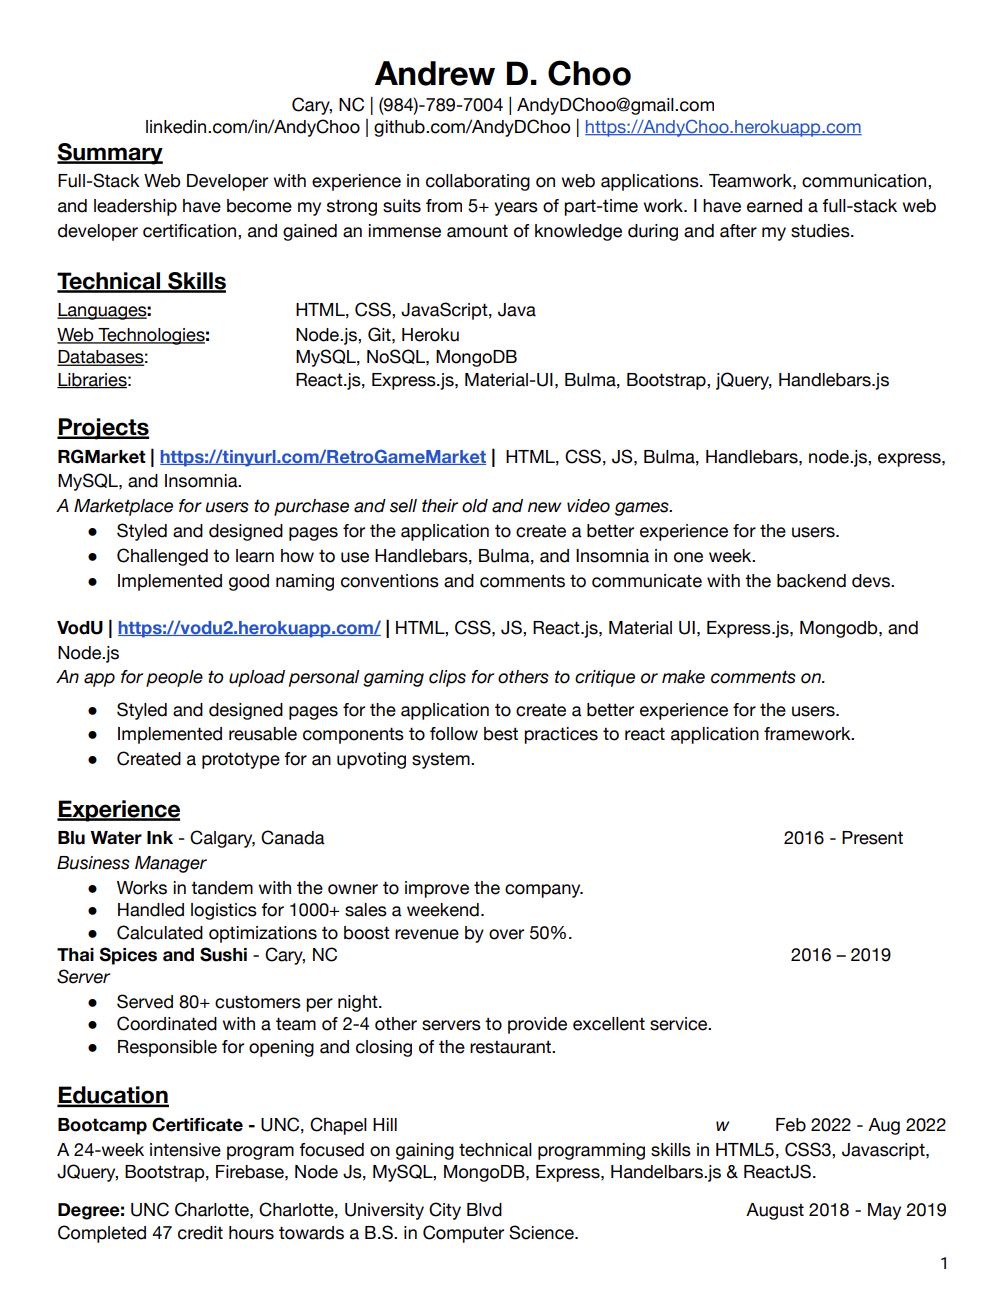
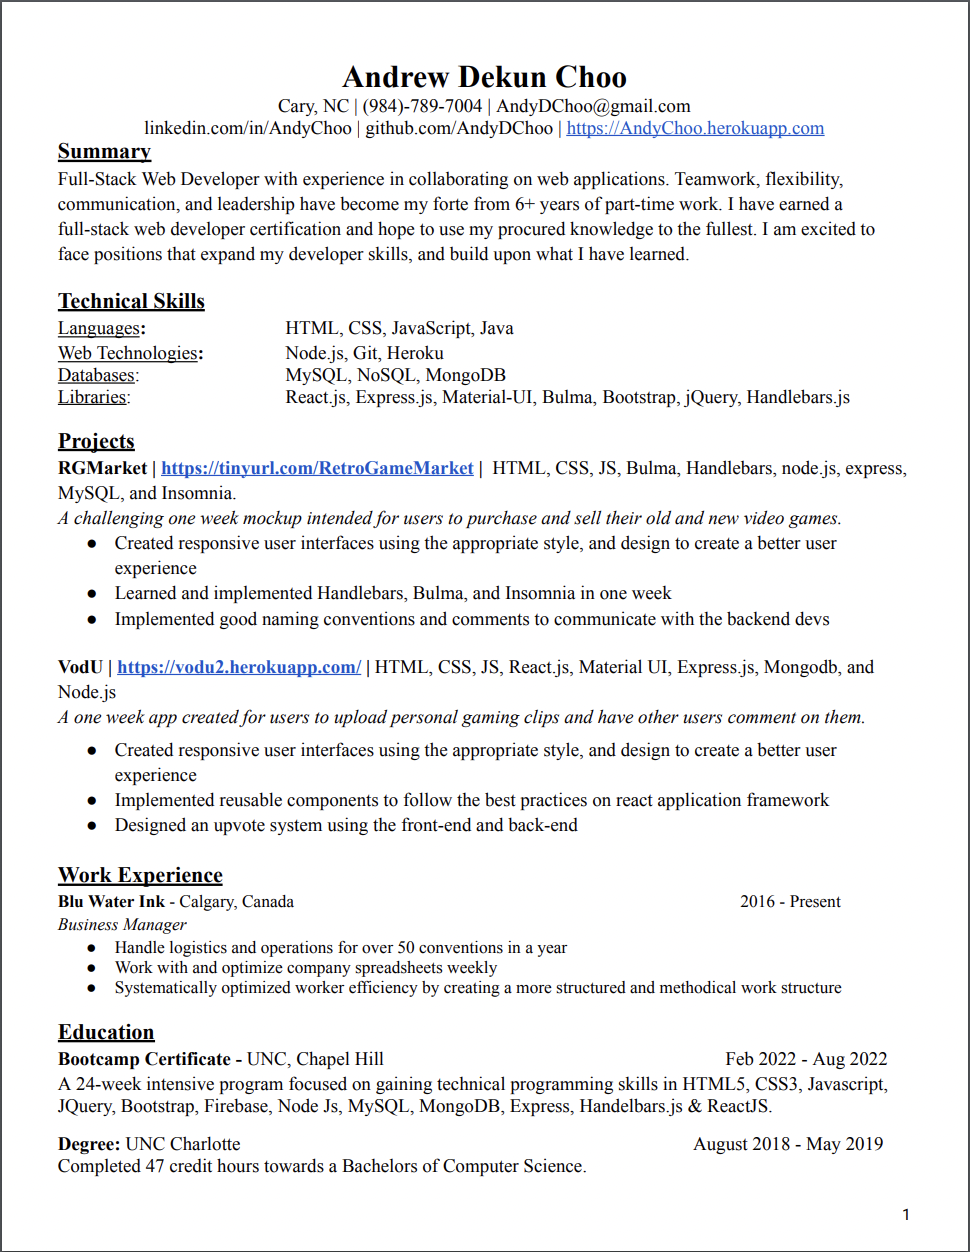
updated resume and link

diff --git a/src/components/resume/Resume.jsx b/src/components/resume/Resume.jsx
@@ -27,7 +27,7 @@ export default function Resume() {
               }}
             >
                 <a 
-                  href="https://docs.google.com/document/d/1WmBt5b2q4WbkGnadHP-Qx6uI7-VqkDmVg1RgikmBp2k/edit?usp=sharing" 
+                  href="https://docs.google.com/document/d/1nLiP4xkcmvnuA8g9GN72zhD537m8yjlW0qt6zR9ELRY/edit?usp=sharing" 
                   target="_blank"
                   style={{
                     color: '#274c77',
